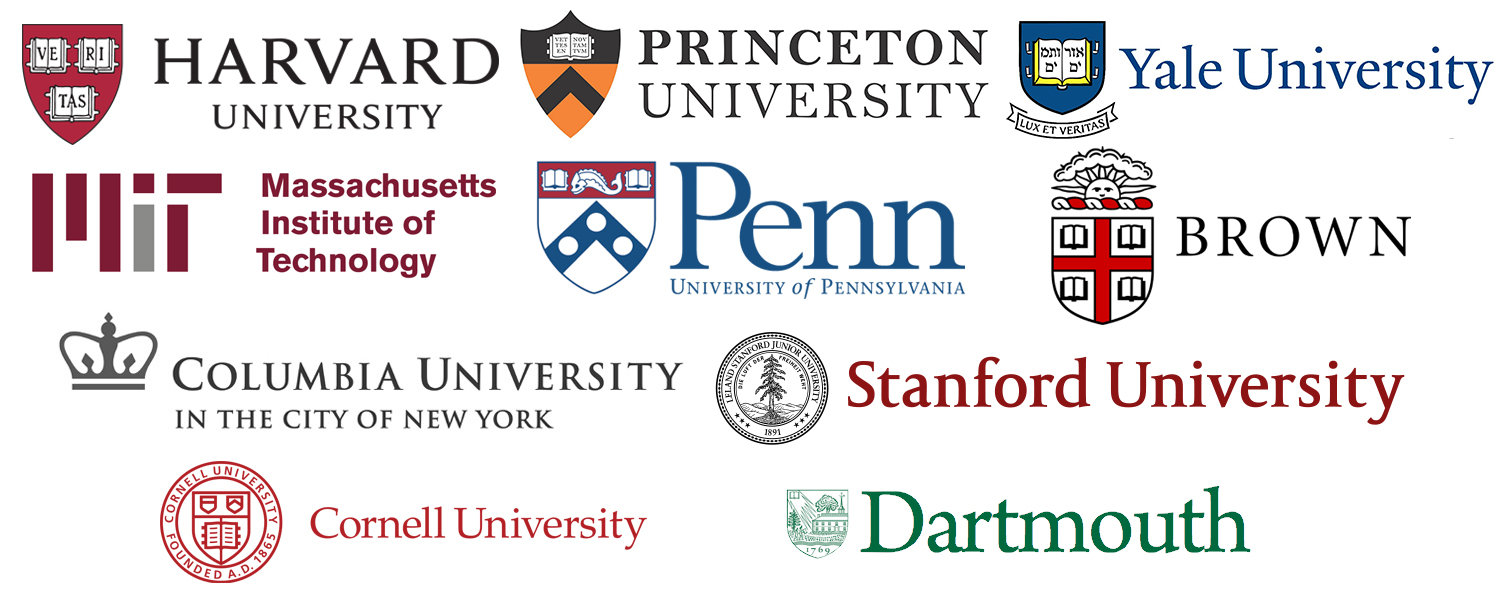
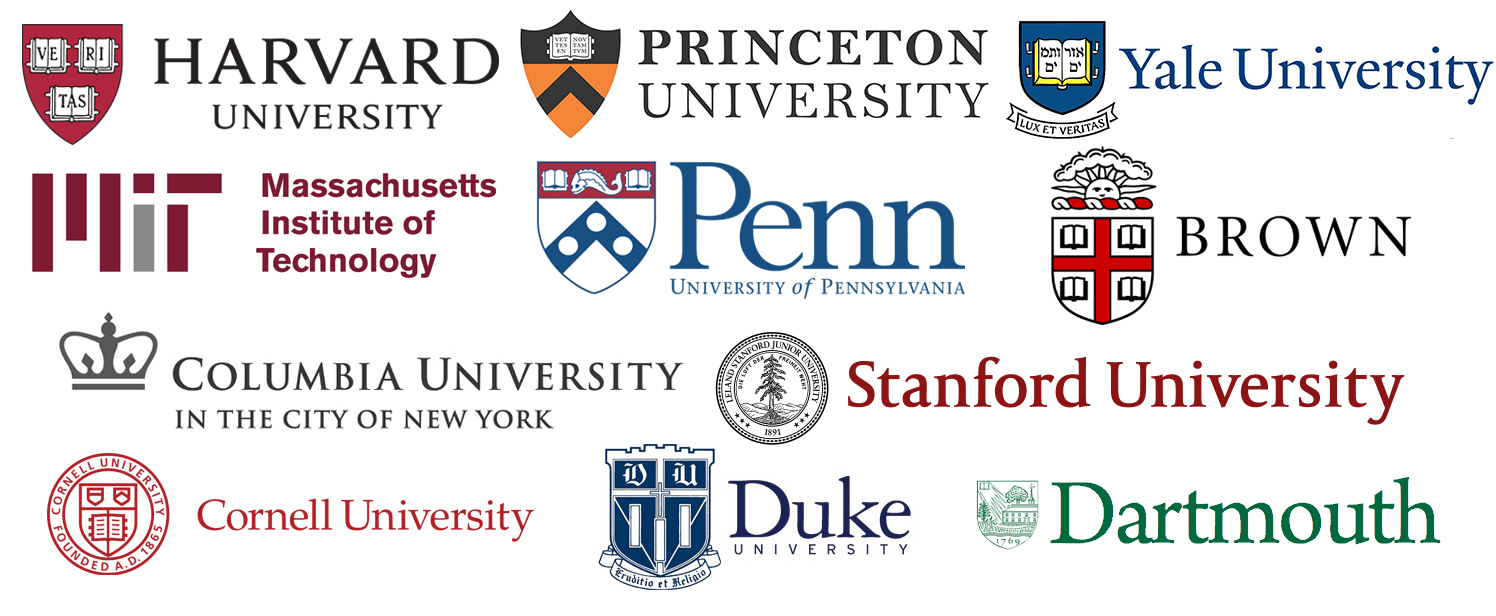
fixed height of splash image and added Duke

Changed region(s): [[0.0307, 0.7094, 0.984, 0.9562]]

diff --git a/app/assets/stylesheets/main.css.scss b/app/assets/stylesheets/main.css.scss
@@ -464,7 +464,7 @@ html, body {height: 100%;}
 
 .page_wrap {margin: 0 auto 25px}
 
-header {background-image: url('locust4.jpg'); background-size: cover; padding: 20px 0 40px}
+header {background-image: url('locust4.jpg'); background-size: cover; padding: 20px 0 40px; height: 56em}
 /*'locust4.jpg'*/
 
 .header_nav {background: #fafafa; opacity: .9; padding: 15px 0 0; box-shadow: 0 1px 6px rgba(34, 25, 25, 0.6); z-index: 999}
